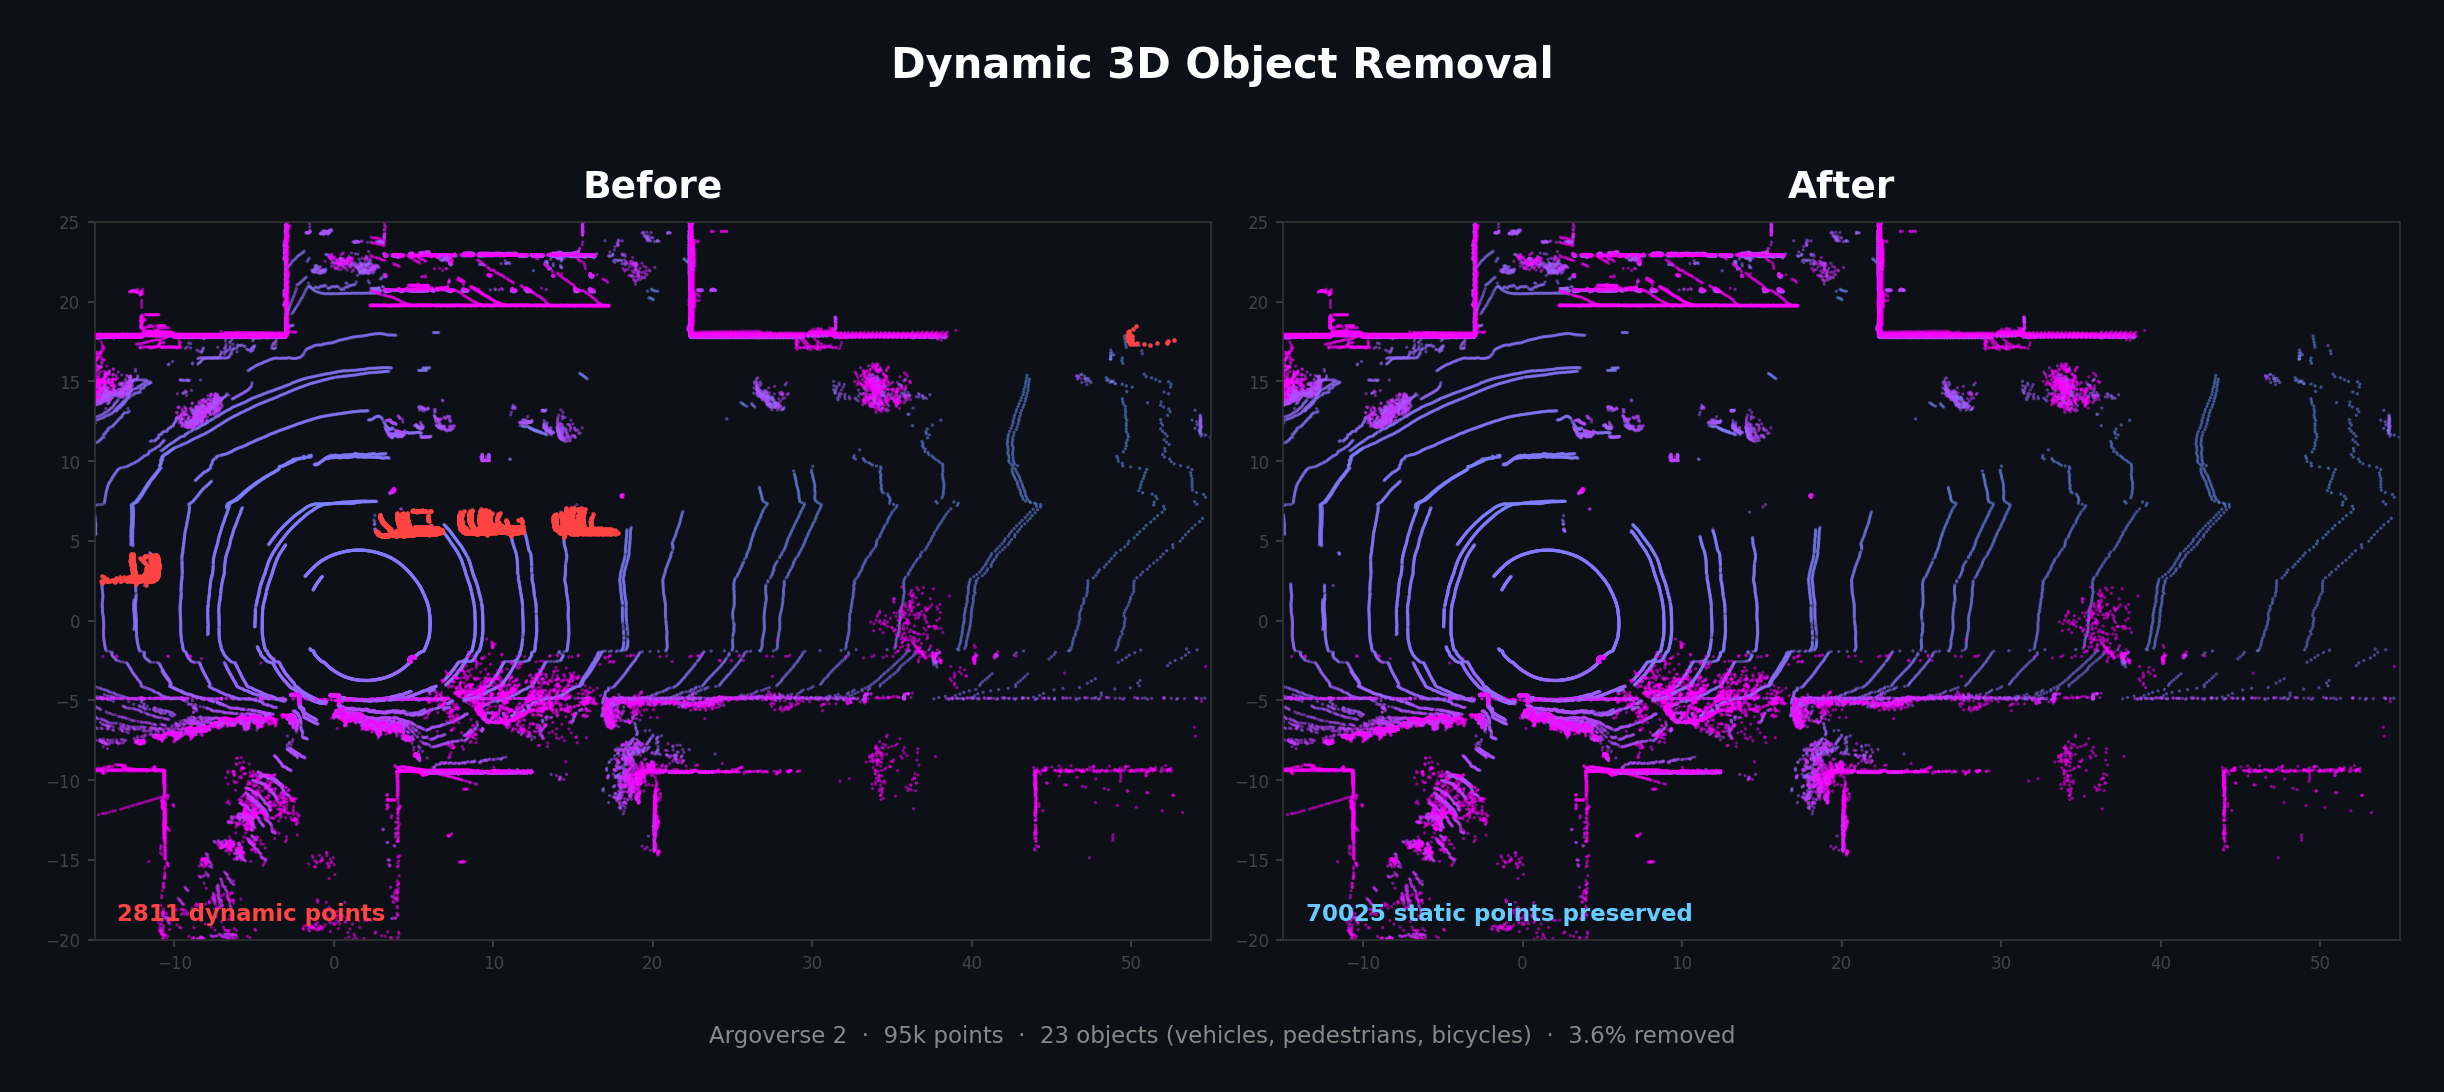
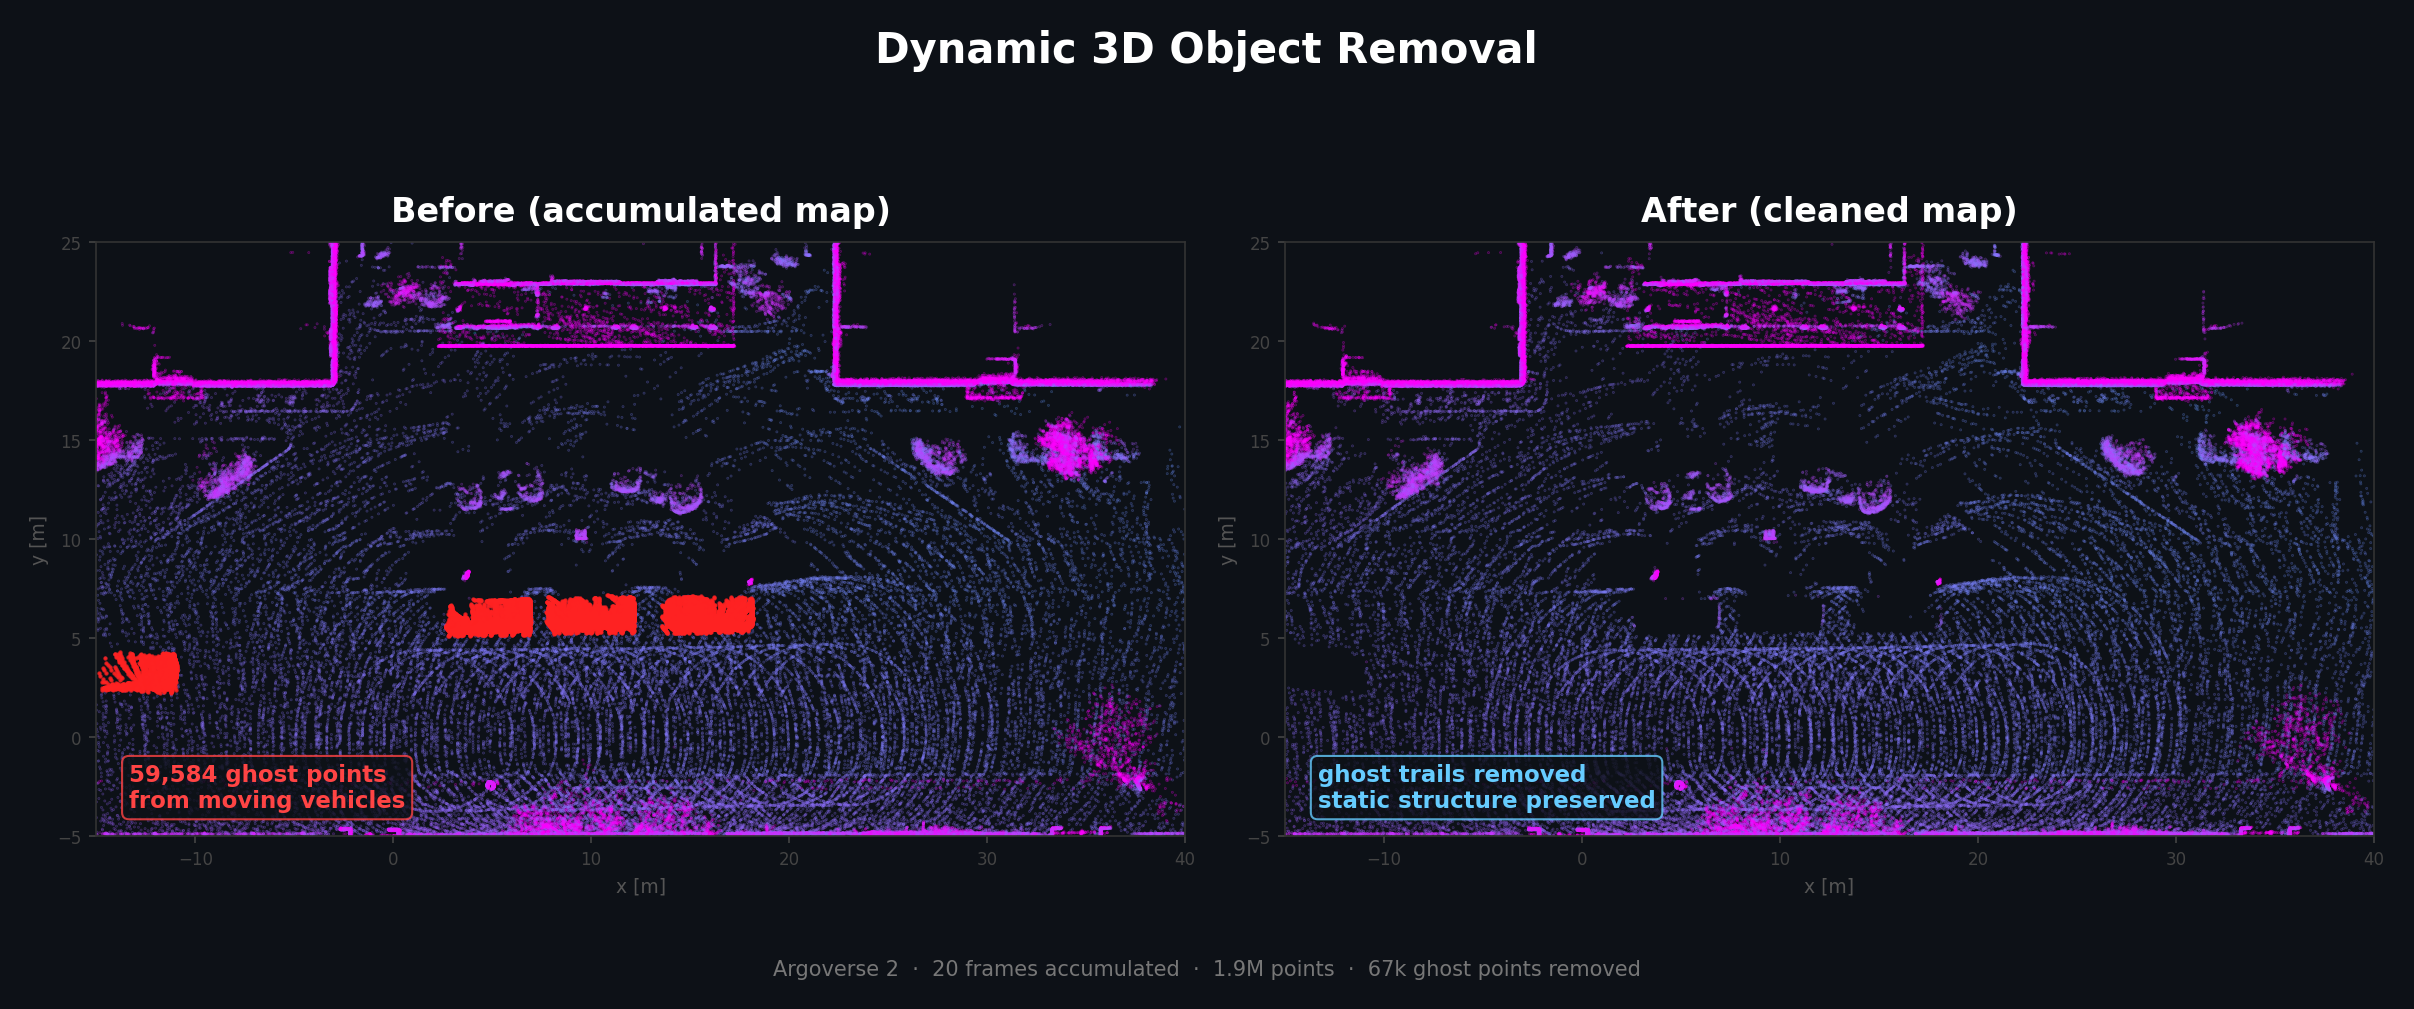
Update hero image to accumulated map before/after
20-frame accumulated map shows dramatic ghost trails from moving
vehicles in the Before panel, cleanly removed in the After panel.
Much more compelling than single-frame comparison (67k ghost points
vs 3.4k in single frame).

diff --git a/README.md b/README.md
@@ -2,9 +2,9 @@
 
 ![Before/After](demo/av2_before_after.png)
 
-> 赤い点 = 動的物体（車両・歩行者・自転車）→ 除去後は道路・建物の静的構造だけが残ります
+> 赤い点 = 車両の移動に伴う ghost trails → 除去後は道路・建物の静的構造だけが残ります
 >
-> Argoverse 2 実データ — 95k 点から 23 オブジェクト (3,406 点) を除去
+> Argoverse 2 実データ — 20 フレーム accumulated map (1.9M 点) から 67k の ghost points を除去
 
 3D バウンディングボックスを使って、点群から動的物体を除去するライブラリです。
 
